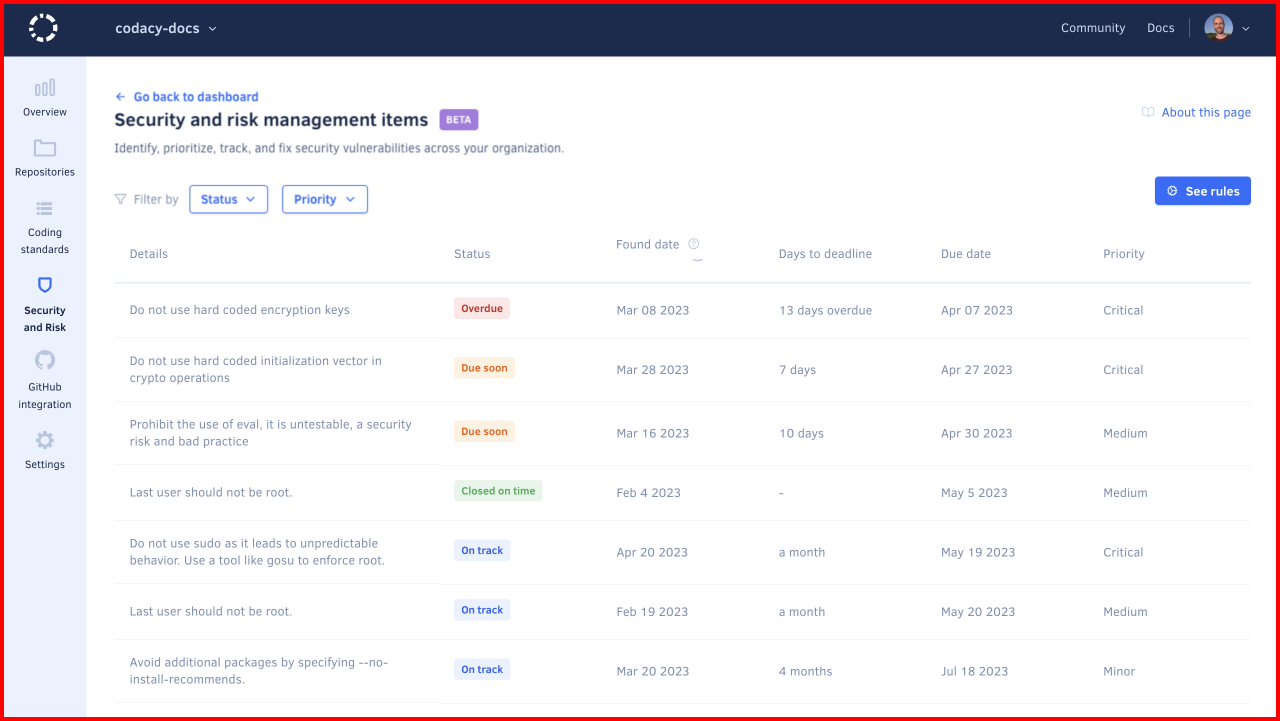
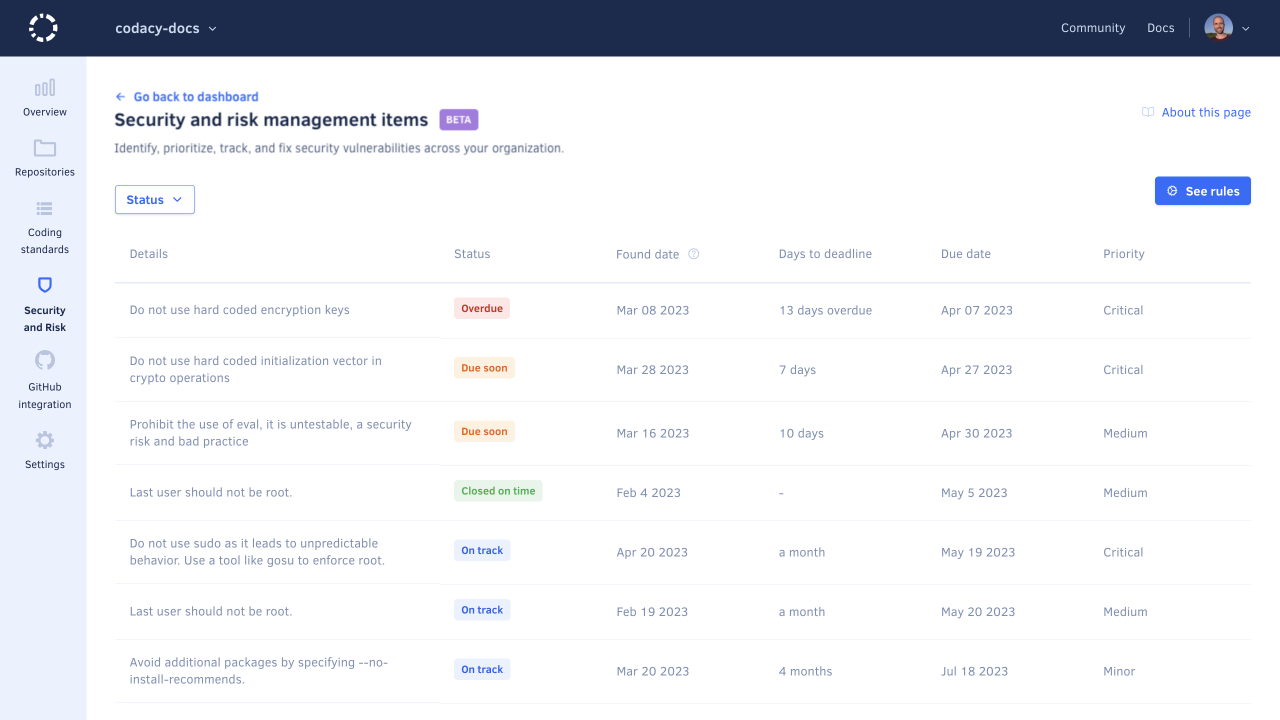
feat: Remove filtering by priority before merging

diff --git a/docs/organizations/managing-security-and-risk.md b/docs/organizations/managing-security-and-risk.md
@@ -36,7 +36,7 @@ To access the item list, access the [dashboard](#dashboard) and click the **Revi
 
 When viewing the item list:
 
--   To update the filtering criteria, click the **Status** or **Priority** drop-downs above the list.
+-   To update the filtering criteria, click the **Status** drop-down above the list.
 -   To find out more about an item, click its **Details** column. This redirects you to a filtered view of the **Repository issues** page, showing only the item of interest.
 
 ![Security and Risk Management item list](images/security-risk-management-item-list.png)
